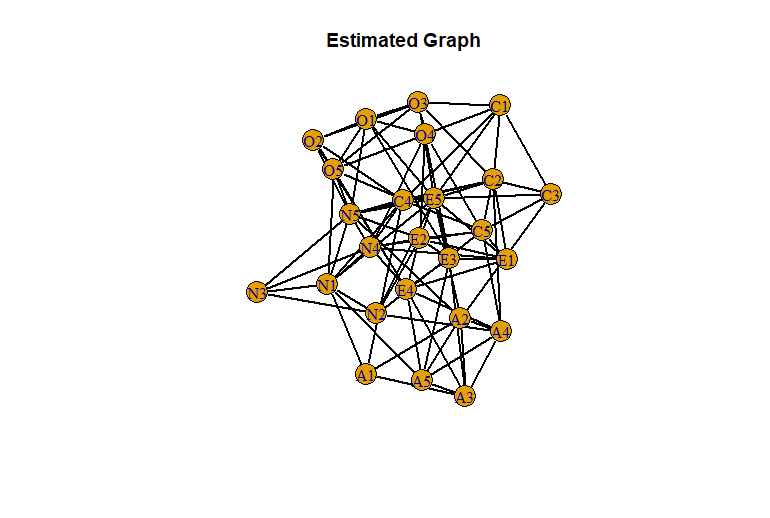
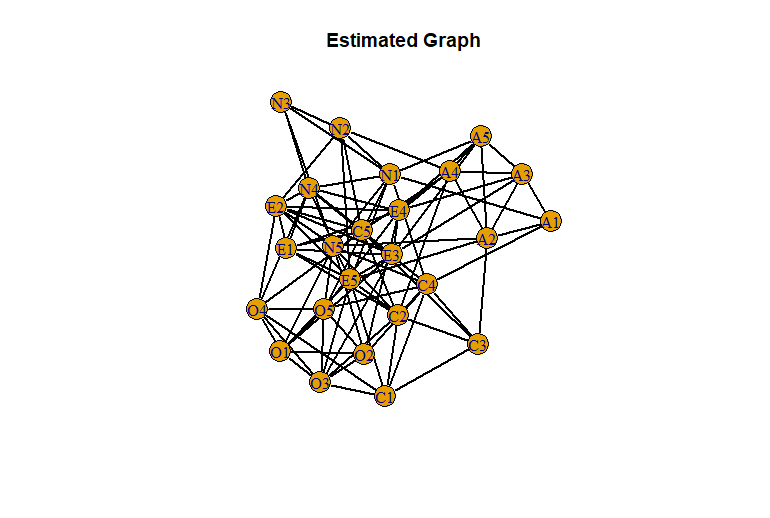
update plots

Changed region(s): [[0.3117, 0.1544, 0.7481, 0.8031]]

diff --git a/README.md b/README.md
@@ -60,12 +60,12 @@ plot_GGMtest(ggm_model,edges = edgeset_1)
 
 ![alt text](https://github.com/SvenKlaassen/GGMtest/blob/master/plots/confidence_intervals_1.png "Confidence Intervals")
 
-Next lets take a look at a more complex example by increasing `n = 2500` and `p = 25`. This time we will add all egdes for inference and plot the network.
+Next lets take a look at a more complex example by increasing `n = 2500` and `p = 25`. This time we will add all egdes (300 since the graph is undirected) for inference and plot the network. 
 ```R
-L <- huge.generator(n = n, d = p, graph = "random")
+L <- huge.generator(n = 2500, d = 25, graph = "random")
 
 # all indices for inference
-edgeset_2 <- t(combn(p,2))
+edgeset_2 <- t(combn(25,2))
 ggm_model_2 <- GGMtest(L$data,edgeset_2, alpha = 0.05,nuisance_estimaton ="lasso")
 
 # true Graph
@@ -74,13 +74,13 @@ graph_layout <- layout.circle
 #graph_layout <- layout.fruchterman.reingold
 true_adj_matrix <- as.matrix(L$theta)
 true_graph <- graph_from_adjacency_matrix(true_adj_matrix , mode='undirected', diag=F )
-plot(true_graph, usearrows = FALSE, vertex.label=1:p,displaylabels=T,main = "True Graph",
+plot(true_graph, usearrows = FALSE, vertex.label=1:25, displaylabels=T, main = "True Graph",
      layout= graph_layout,edge.color = "black",edge.width = 2)
 
 # estimated graph
 est_adj_matrix <- adj_GGMtest(ggm_model_2)
 est_graph <- igraph::graph_from_adjacency_matrix(est_adj_matrix , mode='undirected', diag=F )
-plot(est_graph, usearrows = FALSE, vertex.label=1:p,displaylabels=T,main = "Estimated Graph",
+plot(est_graph, usearrows = FALSE, vertex.label=1:25, displaylabels=T, main = "Estimated Graph",
      layout= graph_layout,edge.color = "black",edge.width = 2)
 
 #calculation matrix difference
@@ -88,7 +88,7 @@ diff_matrix <- true_adj_matrix - est_adj_matrix
 diff_graph <- igraph::graph_from_adjacency_matrix(diff_matrix  , mode='undirected', diag=F, weighted = T)
 E(diff_graph)$color[E(diff_graph)$weight == 1] <- "blue"
 E(diff_graph)$color[E(diff_graph)$weight == -1] <- "red"
-plot(diff_graph, usearrows = FALSE, vertex.label=1:p,displaylabels=T,main = "Graph Differences",
+plot(diff_graph, usearrows = FALSE, vertex.label=1:25, displaylabels=T, main = "Graph Differences",
      layout= graph_layout,edge.width = 2)
 legend(x=-1.5, y=-1.1, c("False Positive","False Negative"), pch=21,
        col="#777777", pt.bg=c("red","blue"), pt.cex=2, cex=.8, bty="n", ncol=1)
